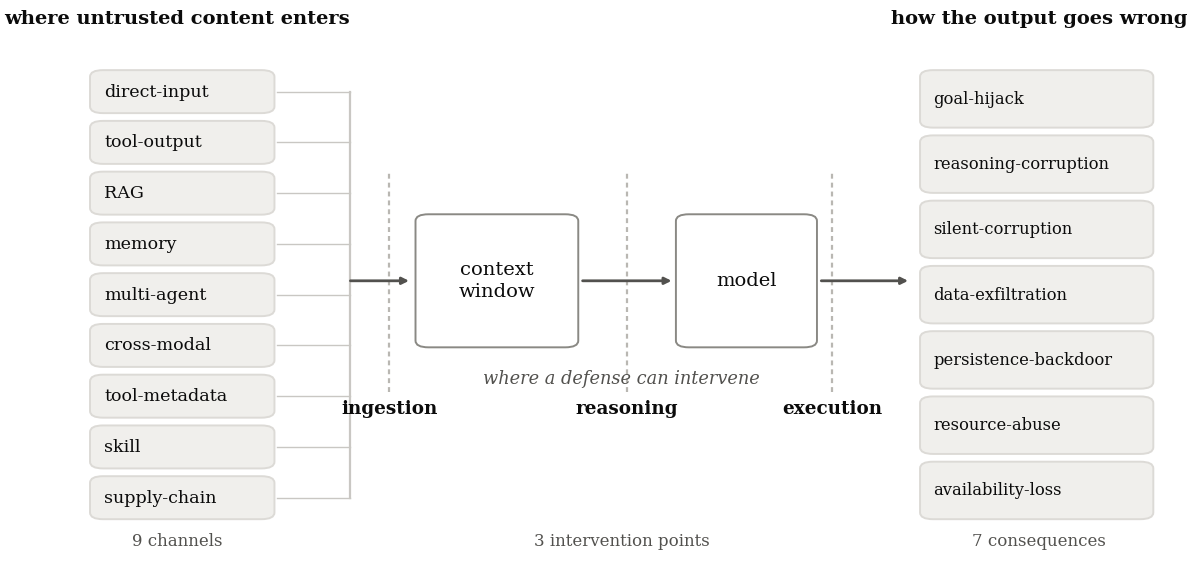
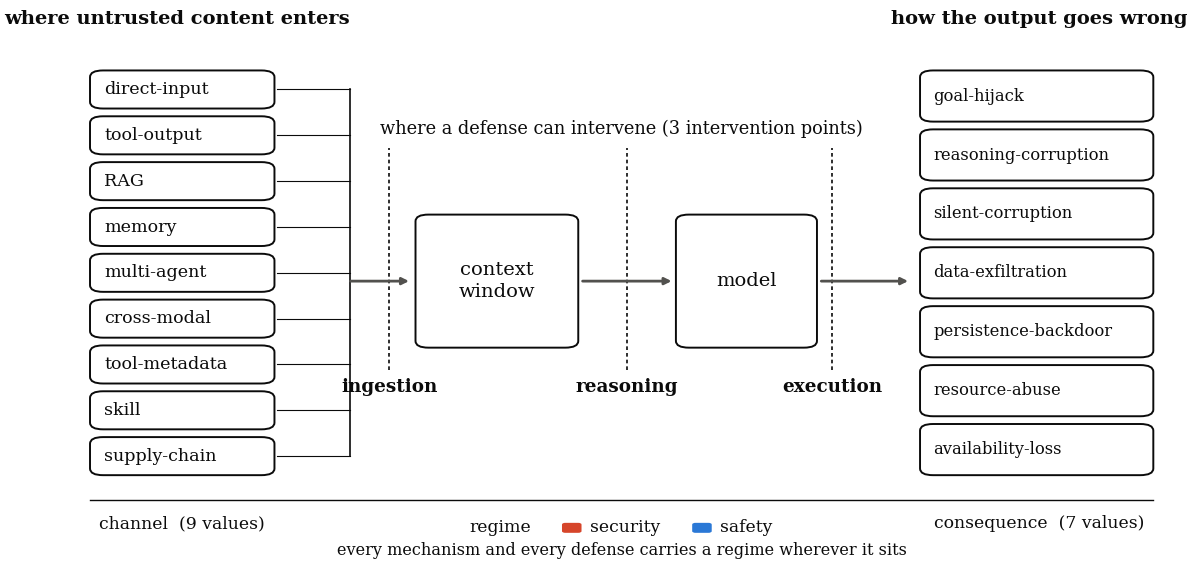
Redraw the pipeline figure and draw the regime axis on it

diff --git a/scripts/gen_taxonomy_figure.py b/scripts/gen_taxonomy_figure.py
@@ -35,9 +35,11 @@ REPO = pathlib.Path(__file__).resolve().parent.parent
 R = REPO / "data" / "registries"
 OUT = REPO / "latex" / "figures"
 
-CAT = ["#2a78d6", "#eb6834", "#1baf7a", "#eda100", "#e87ba4", "#008300"]
 INK, INK2, MUTED = "#0b0b0b", "#52514e", "#8a8984"
-GREY = "#f0efec"
+# No fills. Every box here was washed in #f0efec, which is the shade that
+# makes a figure read as a slide and is the first thing to disappear in a
+# printed copy. Boxes are white with a hairline edge; the rules and stubs
+# are ink, thin.
 # The track convention, the same hexes as gen_paper_figures.py: security is
 # red and safety is blue, in every figure in the paper. This file had them
 # the other way round, which made it the one figure where the colours meant
@@ -101,53 +103,69 @@ def main():
 
     # ---- channels, left ----------------------------------------------------
     n = len(CHANNELS)
-    top, bot, gap = 88.0, 7.0, 1.4
+    top, bot, gap = 88.0, 15.0, 1.4
     h = (top - bot - gap * (n - 1)) / n
     ax.text(9, 96.4, "where untrusted content enters", ha="center",
             fontsize=7, color=INK, fontweight="bold")
-    ax.text(9, 2.2, f"{len(CHANNELS)} channels", ha="center",
-            fontsize=6.0, color=INK2)
     BUS = 25.0
     for i, c in enumerate(CHANNELS):
         y = top - i * (h + gap) - h
-        box(ax, 1, y, 17, h, "", GREY, "#dcdad6")
+        box(ax, 1, y, 17, h, "", "#ffffff", INK)
         ax.text(2.3, y + h / 2, c, ha="left", va="center", fontsize=6.3, color=INK)
         # short stub to a vertical bus, instead of nine lines crossing the page
-        ax.plot([18.2, BUS], [y + h / 2, y + h / 2], lw=0.5, color="#c9c7c3",
+        ax.plot([18.2, BUS], [y + h / 2, y + h / 2], lw=0.4, color=INK,
                 zorder=0)
-    ax.plot([BUS, BUS], [bot + h / 2, top - h / 2], lw=0.8, color="#c9c7c3",
+    ax.plot([BUS, BUS], [bot + h / 2, top - h / 2], lw=0.6, color=INK,
             zorder=0)
     arrow(ax, BUS, 50, 30.4, 50, lw=1.0, color=INK2)
 
     # ---- the pipeline ------------------------------------------------------
-    box(ax, 31, 38, 15, 24, "context\nwindow", "#ffffff", MUTED, fs=7)
-    box(ax, 55, 38, 13, 24, "model", "#ffffff", MUTED, fs=7)
+    box(ax, 31, 38, 15, 24, "context\nwindow", "#ffffff", INK, fs=7)
+    box(ax, 55, 38, 13, 24, "model", "#ffffff", INK, fs=7)
     arrow(ax, 46.4, 50, 54.6, 50, lw=1.0, color=INK2)
     arrow(ax, 68.4, 50, 76.4, 50, lw=1.0, color=INK2)
 
     # ---- the three intervention points -------------------------------------
     for (key, lab), xc in zip(POINTS, (28.6, 50.5, 69.4)):
-        ax.plot([xc, xc], [30, 70], ls=(0, (2.2, 1.8)), lw=0.8,
-                color="#b9b7b2", zorder=0)
-        ax.text(xc, 26.0, lab, ha="center", fontsize=6.6, color=INK,
+        ax.plot([xc, xc], [34, 74], ls=(0, (2.2, 1.8)), lw=0.6,
+                color=INK, zorder=0)
+        ax.text(xc, 30.0, lab, ha="center", fontsize=6.6, color=INK,
                 fontweight="bold")
-    ax.text(50, 31.5, "where a defense can intervene", ha="center",
-            fontsize=6.4, color=INK2, style="italic")
-    ax.text(50, 2.2, f"{len(POINTS)} intervention points", ha="center",
-            fontsize=6.0, color=INK2)
+    ax.text(50, 76.5, f"where a defense can intervene "
+                      f"({len(POINTS)} intervention points)", ha="center",
+            fontsize=6.4, color=INK)
 
     # ---- consequences, right -----------------------------------------------
     n2 = len(CONSEQ)
     h2 = (top - bot - gap * (n2 - 1)) / n2
     ax.text(88.5, 96.4, "how the output goes wrong", ha="center",
             fontsize=7, color=INK, fontweight="bold")
-    ax.text(88.5, 2.2, f"{len(CONSEQ)} consequences", ha="center",
-            fontsize=6.0, color=INK2)
     for i, c in enumerate(CONSEQ):
         y = top - i * (h2 + gap) - h2
-        box(ax, 77.5, y, 21.5, h2, "", GREY, "#dcdad6")
+        box(ax, 77.5, y, 21.5, h2, "", "#ffffff", INK)
         ax.text(78.7, y + h2 / 2, c, ha="left", va="center", fontsize=5.9,
                 color=INK)
+
+    # The three axes of the taxonomy, named together. Regime has no place
+    # in the flow -- every mechanism and every defense carries one wherever
+    # it sits -- so it was left off the figure entirely and the caption had
+    # to apologise for it. Naming all three on one strip draws it without
+    # pretending it is a stage.
+    ax.plot([1, 99], [10.5, 10.5], lw=0.5, color=INK)
+    ax.text(9.5, 5.5, f"channel  ({len(CHANNELS)} values)", ha="center",
+            fontsize=6.2, color=INK)
+    ax.text(88.5, 5.5, f"consequence  ({len(CONSEQ)} values)", ha="center",
+            fontsize=6.2, color=INK)
+    ax.text(36, 5.5, "regime", ha="left", va="center", fontsize=6.2,
+            color=INK)
+    for x0, c, lab in ((44.5, SEC, "security"), (56.5, ML, "safety")):
+        ax.add_patch(FancyBboxPatch((x0, 4.6), 1.8, 1.8,
+                                    boxstyle="round,pad=0,rounding_size=0.3",
+                                    linewidth=0, facecolor=c))
+        ax.text(x0 + 2.6, 5.5, lab, ha="left", va="center", fontsize=6.2,
+                color=INK)
+    ax.text(50, 0.6, "every mechanism and every defense carries a regime "
+                     "wherever it sits", ha="center", fontsize=5.8, color=INK)
 
     OUT.mkdir(parents=True, exist_ok=True)
     for ext in ("pdf", "png"):

diff --git a/latex/sections/03-literatures.tex b/latex/sections/03-literatures.tex
@@ -92,12 +92,13 @@ experiments rather than a filing scheme.
 \caption{The taxonomy against the system it describes. Untrusted content
 arrives through one of \NChannelCats{} \textbf{channels}, enters one context
 window, and the output fails as one of \NConseqCats{} \textbf{consequences}.
-A defense can intervene at one of three points between them. The third axis,
-\textbf{regime}, is not drawn here: every mechanism and every defense also
-carries one, and Table~\ref{tab:intervention} and Figure~\ref{fig:cube} give
-the split. This figure carries the vocabulary; the counts are in the text.
-Drawn as a flow rather than a tree because the taxonomy is a cube, and the
-pipeline is the one ordering the three axes genuinely have.}
+A defense can intervene at one of three points between them. The strip
+below names all three axes, \textbf{regime} included, which is carried by
+every mechanism and every defense rather than occupied at a stage;
+Table~\ref{tab:intervention} and Figure~\ref{fig:cube} give its split. This
+figure carries the vocabulary and the counts are in the text. Drawn as a
+flow rather than a tree because the taxonomy is a cube, and the pipeline is
+the one ordering the three axes genuinely have.}
 \label{fig:pipeline}
 \end{figure*}
 
